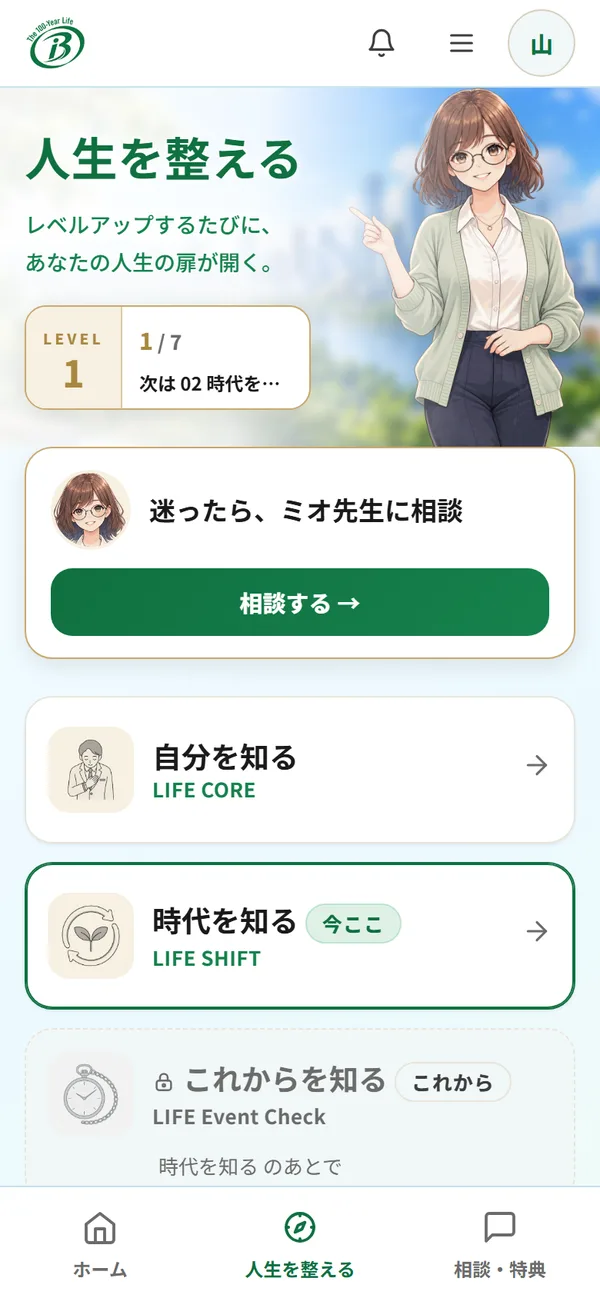
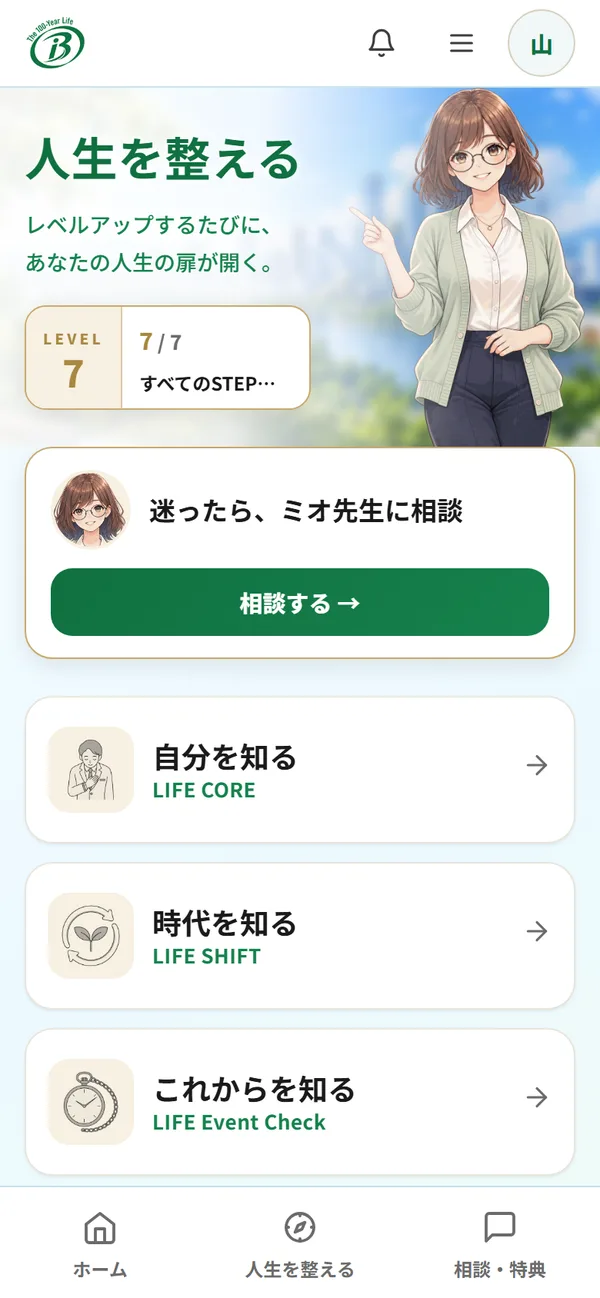
改善版: モックアップをスマホ枠に統一（人生を整える=全STEP解放・ディグラム診断をスマホ幅で撮影）

diff --git a/v2/index.html b/v2/index.html
@@ -7,7 +7,7 @@
 <link href="https://fonts.googleapis.com/css2?family=Noto+Serif+JP:wght@500;600&amp;display=swap" rel="stylesheet"/>
 <link href="../style.css?v=2" rel="stylesheet"/>
 <link href="../enhance.css?v=18" rel="stylesheet"/>
-<link href="../journey.css?v=7" rel="stylesheet"/>
+<link href="../journey.css?v=8" rel="stylesheet"/>
 <script>document.documentElement.classList.add('js');setTimeout(function(){if(!window.__lj)document.documentElement.classList.remove('js')},2500)</script>
 <script defer="" src="../journey.js?v=1"></script>
 <script defer="" src="../script.js?v=3"></script>
@@ -58,15 +58,15 @@
 <h2><w-b>８つの</w-b><w-b>入口が、</w-b><br/><w-b>一つの</w-b><w-b>人生に</w-b><w-b>つながる。</w-b></h2>
 <p class="lead" data-fit="" style="--fit:4.277vw;--fit-cap:16px"><w-b>気づきから、</w-b><w-b>学び、</w-b><w-b>設計、</w-b><w-b>対話、</w-b><w-b>行動まで。</w-b><br/><w-b>すべてを、</w-b><w-b>あなたの</w-b><w-b>人生の</w-b><w-b>流れの</w-b><w-b>中で。</w-b></p>
 <ol class="journey-map"><li class="jm-item"><a class="jm-link" href="#core"><span class="jm-no">01</span><span class="jm-body"><small class="jm-en">LIFE CORE</small><strong class="jm-ja"><w-b>自分を</w-b><w-b>知る</w-b></strong><span class="jm-desc"><w-b>20の</w-b><w-b>質問で、</w-b><w-b>自分の</w-b><w-b>性格の</w-b><w-b>傾向を</w-b><w-b>知る</w-b></span></span></a></li><li class="jm-item"><a class="jm-link" href="#shift"><span class="jm-no">02</span><span class="jm-body"><small class="jm-en">LIFE SHIFT</small><strong class="jm-ja"><w-b>時代を</w-b><w-b>知る</w-b></strong><span class="jm-desc"><w-b>電子書籍と</w-b><w-b>年表で、</w-b><w-b>人生100年時代の</w-b><w-b>前提を</w-b><w-b>知る</w-b></span></span></a></li><li class="jm-item"><a class="jm-link" href="#event"><span class="jm-no">03</span><span class="jm-body"><small class="jm-en">LIFE Event Check</small><strong class="jm-ja"><w-b>未来を</w-b><w-b>描く</w-b></strong><span class="jm-desc"><w-b>家族の</w-b><w-b>年齢から、</w-b><w-b>これからの</w-b><w-b>出来事を</w-b><w-b>年表に</w-b><w-b>する</w-b></span></span></a></li><li class="jm-item"><a class="jm-link" href="#check"><span class="jm-no">04</span><span class="jm-body"><small class="jm-en">LIFE Check42</small><strong class="jm-ja"><w-b>備えを</w-b><w-b>確かめる</w-b></strong><span class="jm-desc"><w-b>6つの</w-b><w-b>テーマ・42問で、</w-b><w-b>今の</w-b><w-b>備えを</w-b><w-b>確かめる</w-b></span></span></a></li><li class="jm-item"><a class="jm-link" href="#academy"><span class="jm-no">05</span><span class="jm-body"><small class="jm-en">LIFE ACADEMY42 &amp; QUEST</small><strong class="jm-ja"><w-b>学び、</w-b><w-b>心に</w-b><w-b>残す</w-b></strong><span class="jm-desc"><w-b>動画で</w-b><w-b>知識を</w-b><w-b>学び、</w-b><w-b>物語で</w-b><w-b>心に</w-b><w-b>残す</w-b></span></span></a></li><li class="jm-item"><a class="jm-link" href="#roadmap"><span class="jm-no">06</span><span class="jm-body"><small class="jm-en">LIFE ROADMAP</small><strong class="jm-ja"><w-b>未来を</w-b><w-b>設計する</w-b></strong><span class="jm-desc"><w-b>願いと</w-b><w-b>学びを、</w-b><w-b>人生設計書に</w-b><w-b>まとめる</w-b></span></span></a></li><li class="jm-item"><a class="jm-link" href="#meeting"><span class="jm-no">07</span><span class="jm-body"><small class="jm-en">LIFE Meeting</small><strong class="jm-ja"><w-b>想いを</w-b><w-b>分かち合う</w-b></strong><span class="jm-desc"><w-b>見つけた</w-b><w-b>願いを、</w-b><w-b>大切な</w-b><w-b>人と</w-b><w-b>話す</w-b></span></span></a></li><li class="jm-item"><a class="jm-link" href="#consult"><span class="jm-no">08</span><span class="jm-body"><small class="jm-en">LIFE Consult</small><strong class="jm-ja"><w-b>必要な</w-b><w-b>力を</w-b><w-b>借りる</w-b></strong><span class="jm-desc"><w-b>住まいや</w-b><w-b>保険の</w-b><w-b>専門家に</w-b><w-b>相談する</w-b></span></span></a></li></ol>
-<p class="contents-note"><w-b>ミオ先生と</w-b><w-b>LIFE Recordが、</w-b><w-b>この</w-b><w-b>旅を</w-b><w-b>通してあなたの</w-b><w-b>気づきと</w-b><w-b>歩みを</w-b><w-b>支えます。</w-b></p><figure class="pc-panel map-shot"><div class="browsers"><div class="browser"><img alt="会員ページの「人生を整える」画面" decoding="async" height="907" loading="lazy" src="../shots/pc-journey.webp" width="927"/></div></div><figcaption><w-b>会員ページの</w-b><w-b>「人生を</w-b><w-b>整える」画面。</w-b><w-b>8つの</w-b><w-b>ステップが</w-b><w-b>順に</w-b><w-b>並びます</w-b></figcaption></figure></section>
-<section class="chapter ch" id="core"><div class="ch-head"><p class="eyebrow">LIFE CORE</p><h2 data-fit="" style="--fit:6.899vw;--fit-cap:27px"><w-b>自分を</w-b><w-b>知ることは、</w-b><br/><w-b>自分の</w-b><w-b>人生を</w-b><w-b>選ぶ力に</w-b><w-b>なる。</w-b></h2><p class="pull ch-lead" data-fit="" style="--fit:5.608vw;--fit-cap:19px"><w-b>未来を</w-b><w-b>描く</w-b><w-b>前に、</w-b><br/><w-b>その</w-b><w-b>未来を</w-b><w-b>生きる</w-b><w-b>自分を</w-b><w-b>知ろう。</w-b></p></div><div class="chapter-visual screen-visual"><figure class="pc-panel"><div class="browsers"><div class="browser"><img alt="LIFE CORE の画面" decoding="async" height="745" loading="lazy" src="../shots/pc-core.webp" width="891"/></div></div><figcaption><w-b>会員ページの</w-b><w-b>LIFE CORE画面</w-b></figcaption></figure><div class="photo-label"><span>01</span>
-<p>LIFE CORE</p></div></div><div class="ch-body"><div class="can"><p class="can-label"><w-b>できる</w-b><w-b>こと</w-b></p><ul><li><w-b>全20問・3択の</w-b><w-b>質問に</w-b><w-b>答えて、</w-b><w-b>性格の</w-b><w-b>傾向を</w-b><w-b>知る</w-b></li><li><w-b>結果を</w-b><w-b>読み、</w-b><w-b>しっくりくる所と</w-b><w-b>違う</w-b><w-b>所を</w-b><w-b>自分の</w-b><w-b>言葉で</w-b><w-b>確かめる</w-b></li><li><w-b>働き方や</w-b><w-b>人との</w-b><w-b>関わり方を</w-b><w-b>考える</w-b><w-b>手がかりに</w-b><w-b>する</w-b></li></ul></div><figure class="pc-panel tall"><div class="browsers"><div class="browser"><img alt="ディグラム診断の質問画面" decoding="async" height="1325" loading="lazy" src="../shots/digram-q1.webp" width="1067"/></div></div><figcaption><w-b>診断は</w-b><w-b>外部の</w-b><w-b>「ディグラム診断」で</w-b><w-b>受けます</w-b><w-b>（質問画面）</w-b></figcaption></figure><details class="more"><summary><span class="t-open"><w-b>詳しく</w-b><w-b>読む</w-b></span><span class="t-close"><w-b>閉じる</w-b></span></summary><div class="prose"><p><w-b>同じ</w-b><w-b>言葉に</w-b><w-b>励まされる</w-b><w-b>人も</w-b><w-b>いれば、</w-b><w-b>少し</w-b><w-b>苦しくなる</w-b><w-b>人も</w-b><w-b>います。</w-b><w-b>人と</w-b><w-b>話す</w-b><w-b>ことで</w-b><w-b>元気に</w-b><w-b>なる</w-b><w-b>日も、</w-b><w-b>一人で</w-b><w-b>静かに</w-b><w-b>考えたい</w-b><w-b>日も</w-b><w-b>あります。</w-b><w-b>あなたには、</w-b><w-b>あなたの</w-b><w-b>感じ方が</w-b><w-b>あります。</w-b></p><p><w-b>新しい</w-b><w-b>環境に</w-b><w-b>入ると、</w-b><w-b>周りに</w-b><w-b>合わせようと</w-b><w-b>頑張る</w-b><w-b>ことが</w-b><w-b>増えるかもしれません。</w-b><w-b>そんな</w-b><w-b>とき、</w-b><w-b>自分が</w-b><w-b>どんな</w-b><w-b>場面で</w-b><w-b>力を</w-b><w-b>発揮し、</w-b><w-b>どんな</w-b><w-b>ことに</w-b><w-b>無理を</w-b><w-b>しやすいかを</w-b><w-b>知っていると、</w-b><w-b>自分との</w-b><w-b>付き合い方を</w-b><w-b>考えやすくなります。</w-b></p><p><w-b>LIFE COREでは、</w-b><w-b>性格の</w-b><w-b>傾向を</w-b><w-b>示す波形と、</w-b><w-b>これまでの</w-b><w-b>経験を</w-b><w-b>手がかりに、</w-b><w-b>自分を</w-b><w-b>見つめます。</w-b><w-b>結果を</w-b><w-b>読んでしっくりくる</w-b><w-b>ところも、</w-b><w-b>違うと</w-b><w-b>感じる</w-b><w-b>ところも、</w-b><w-b>あなた</w-b><w-b>自身の</w-b><w-b>言葉で</w-b><w-b>確かめていきます。</w-b></p><p><w-b>「頼まれると</w-b><w-b>断れない」</w-b><w-b>「考えてから</w-b><w-b>動く</w-b><w-b>ほうが</w-b><w-b>安心する」</w-b><w-b>「誰かの</w-b><w-b>役に</w-b><w-b>立てると</w-b><w-b>うれしい」。</w-b><w-b>そうした</w-b><w-b>気づきは、</w-b><w-b>働き方、</w-b><w-b>人との</w-b><w-b>関わり方、</w-b><w-b>暮らし方を</w-b><w-b>選ぶ手がかりに</w-b><w-b>なります。</w-b><w-b>傾向は、</w-b><w-b>可能性を</w-b><w-b>決めつける</w-b><w-b>ものではありません。</w-b></p><p><w-b>自分を</w-b><w-b>理解する</w-b><w-b>ことは、</w-b><w-b>相手にも</w-b><w-b>自分と</w-b><w-b>違う</w-b><w-b>感じ方が</w-b><w-b>あると</w-b><w-b>気づく</w-b><w-b>入口です。</w-b><w-b>なぜ</w-b><w-b>伝わらないのだろうと</w-b><w-b>思った</w-b><w-b>とき、</w-b><w-b>相手の</w-b><w-b>受け取り方を</w-b><w-b>想像する</w-b><w-b>余地が</w-b><w-b>生まれます。</w-b></p><p><w-b>この</w-b><w-b>旅の</w-b><w-b>最初に、</w-b><w-b>自分の</w-b><w-b>声を</w-b><w-b>聞く。</w-b><w-b>そこに、</w-b><w-b>これから</w-b><w-b>何を</w-b><w-b>大切に</w-b><w-b>して</w-b><w-b>生きるかを</w-b><w-b>考える</w-b><w-b>土台が</w-b><w-b>あります。</w-b></p></div></details></div></section>
-<section class="chapter ch" id="shift"><div class="ch-head"><p class="eyebrow">LIFE SHIFT</p><h2 data-fit="" style="--fit:7.802vw;--fit-cap:27px"><w-b>大切な</w-b><w-b>想いを、</w-b><br/><w-b>これからの</w-b><w-b>時代に</w-b><w-b>つなぐ。</w-b></h2><p class="pull ch-lead"><w-b>これまでの</w-b><w-b>「当たり前」を</w-b><w-b>確かめる</w-b><w-b>ことが、</w-b><br/><w-b>これからの</w-b><w-b>可能性を</w-b><w-b>広げていく。</w-b></p></div><div class="chapter-visual screen-visual"><figure class="pc-panel"><div class="browsers"><div class="browser"><img alt="LIFE SHIFT の教材の画面" decoding="async" height="805" loading="lazy" src="../shots/pc-shift.webp" width="940"/></div></div><figcaption><w-b>会員ページの</w-b><w-b>LIFE SHIFT画面。</w-b><w-b>電子書籍と</w-b><w-b>年表の</w-b><w-b>2つを</w-b><w-b>読めます</w-b></figcaption></figure><div class="photo-label"><span>02</span>
+<p class="contents-note"><w-b>ミオ先生と</w-b><w-b>LIFE Recordが、</w-b><w-b>この</w-b><w-b>旅を</w-b><w-b>通してあなたの</w-b><w-b>気づきと</w-b><w-b>歩みを</w-b><w-b>支えます。</w-b></p><figure class="shot-panel"><div class="phones"><div class="phone"><img alt="会員ページの「人生を整える」画面" decoding="async" height="1298" loading="lazy" src="../shots/journey.webp" width="600"/></div></div><figcaption><w-b>会員ページの</w-b><w-b>「人生を</w-b><w-b>整える」画面。</w-b><w-b>8つの</w-b><w-b>ステップが</w-b><w-b>順に</w-b><w-b>並びます</w-b></figcaption></figure></section>
+<section class="chapter ch" id="core"><div class="ch-head"><p class="eyebrow">LIFE CORE</p><h2 data-fit="" style="--fit:6.899vw;--fit-cap:27px"><w-b>自分を</w-b><w-b>知ることは、</w-b><br/><w-b>自分の</w-b><w-b>人生を</w-b><w-b>選ぶ力に</w-b><w-b>なる。</w-b></h2><p class="pull ch-lead" data-fit="" style="--fit:5.608vw;--fit-cap:19px"><w-b>未来を</w-b><w-b>描く</w-b><w-b>前に、</w-b><br/><w-b>その</w-b><w-b>未来を</w-b><w-b>生きる</w-b><w-b>自分を</w-b><w-b>知ろう。</w-b></p></div><div class="chapter-visual screen-visual"><figure class="shot-panel"><div class="phones"><div class="phone"><img alt="LIFE CORE の画面" decoding="async" height="1298" loading="lazy" src="../shots/core.webp" width="600"/></div></div><figcaption><w-b>会員ページの</w-b><w-b>LIFE CORE画面</w-b></figcaption></figure><div class="photo-label"><span>01</span>
+<p>LIFE CORE</p></div></div><div class="ch-body"><div class="can"><p class="can-label"><w-b>できる</w-b><w-b>こと</w-b></p><ul><li><w-b>全20問・3択の</w-b><w-b>質問に</w-b><w-b>答えて、</w-b><w-b>性格の</w-b><w-b>傾向を</w-b><w-b>知る</w-b></li><li><w-b>結果を</w-b><w-b>読み、</w-b><w-b>しっくりくる所と</w-b><w-b>違う</w-b><w-b>所を</w-b><w-b>自分の</w-b><w-b>言葉で</w-b><w-b>確かめる</w-b></li><li><w-b>働き方や</w-b><w-b>人との</w-b><w-b>関わり方を</w-b><w-b>考える</w-b><w-b>手がかりに</w-b><w-b>する</w-b></li></ul></div><figure class="shot-panel"><div class="phones"><div class="phone"><img alt="ディグラム診断の質問画面" decoding="async" height="1298" loading="lazy" src="../shots/digram-sp.webp" width="600"/></div></div><figcaption><w-b>診断は</w-b><w-b>外部の</w-b><w-b>「ディグラム診断」で</w-b><w-b>受けます</w-b><w-b>（質問画面）</w-b></figcaption></figure><details class="more"><summary><span class="t-open"><w-b>詳しく</w-b><w-b>読む</w-b></span><span class="t-close"><w-b>閉じる</w-b></span></summary><div class="prose"><p><w-b>同じ</w-b><w-b>言葉に</w-b><w-b>励まされる</w-b><w-b>人も</w-b><w-b>いれば、</w-b><w-b>少し</w-b><w-b>苦しくなる</w-b><w-b>人も</w-b><w-b>います。</w-b><w-b>人と</w-b><w-b>話す</w-b><w-b>ことで</w-b><w-b>元気に</w-b><w-b>なる</w-b><w-b>日も、</w-b><w-b>一人で</w-b><w-b>静かに</w-b><w-b>考えたい</w-b><w-b>日も</w-b><w-b>あります。</w-b><w-b>あなたには、</w-b><w-b>あなたの</w-b><w-b>感じ方が</w-b><w-b>あります。</w-b></p><p><w-b>新しい</w-b><w-b>環境に</w-b><w-b>入ると、</w-b><w-b>周りに</w-b><w-b>合わせようと</w-b><w-b>頑張る</w-b><w-b>ことが</w-b><w-b>増えるかもしれません。</w-b><w-b>そんな</w-b><w-b>とき、</w-b><w-b>自分が</w-b><w-b>どんな</w-b><w-b>場面で</w-b><w-b>力を</w-b><w-b>発揮し、</w-b><w-b>どんな</w-b><w-b>ことに</w-b><w-b>無理を</w-b><w-b>しやすいかを</w-b><w-b>知っていると、</w-b><w-b>自分との</w-b><w-b>付き合い方を</w-b><w-b>考えやすくなります。</w-b></p><p><w-b>LIFE COREでは、</w-b><w-b>性格の</w-b><w-b>傾向を</w-b><w-b>示す波形と、</w-b><w-b>これまでの</w-b><w-b>経験を</w-b><w-b>手がかりに、</w-b><w-b>自分を</w-b><w-b>見つめます。</w-b><w-b>結果を</w-b><w-b>読んでしっくりくる</w-b><w-b>ところも、</w-b><w-b>違うと</w-b><w-b>感じる</w-b><w-b>ところも、</w-b><w-b>あなた</w-b><w-b>自身の</w-b><w-b>言葉で</w-b><w-b>確かめていきます。</w-b></p><p><w-b>「頼まれると</w-b><w-b>断れない」</w-b><w-b>「考えてから</w-b><w-b>動く</w-b><w-b>ほうが</w-b><w-b>安心する」</w-b><w-b>「誰かの</w-b><w-b>役に</w-b><w-b>立てると</w-b><w-b>うれしい」。</w-b><w-b>そうした</w-b><w-b>気づきは、</w-b><w-b>働き方、</w-b><w-b>人との</w-b><w-b>関わり方、</w-b><w-b>暮らし方を</w-b><w-b>選ぶ手がかりに</w-b><w-b>なります。</w-b><w-b>傾向は、</w-b><w-b>可能性を</w-b><w-b>決めつける</w-b><w-b>ものではありません。</w-b></p><p><w-b>自分を</w-b><w-b>理解する</w-b><w-b>ことは、</w-b><w-b>相手にも</w-b><w-b>自分と</w-b><w-b>違う</w-b><w-b>感じ方が</w-b><w-b>あると</w-b><w-b>気づく</w-b><w-b>入口です。</w-b><w-b>なぜ</w-b><w-b>伝わらないのだろうと</w-b><w-b>思った</w-b><w-b>とき、</w-b><w-b>相手の</w-b><w-b>受け取り方を</w-b><w-b>想像する</w-b><w-b>余地が</w-b><w-b>生まれます。</w-b></p><p><w-b>この</w-b><w-b>旅の</w-b><w-b>最初に、</w-b><w-b>自分の</w-b><w-b>声を</w-b><w-b>聞く。</w-b><w-b>そこに、</w-b><w-b>これから</w-b><w-b>何を</w-b><w-b>大切に</w-b><w-b>して</w-b><w-b>生きるかを</w-b><w-b>考える</w-b><w-b>土台が</w-b><w-b>あります。</w-b></p></div></details></div></section>
+<section class="chapter ch" id="shift"><div class="ch-head"><p class="eyebrow">LIFE SHIFT</p><h2 data-fit="" style="--fit:7.802vw;--fit-cap:27px"><w-b>大切な</w-b><w-b>想いを、</w-b><br/><w-b>これからの</w-b><w-b>時代に</w-b><w-b>つなぐ。</w-b></h2><p class="pull ch-lead"><w-b>これまでの</w-b><w-b>「当たり前」を</w-b><w-b>確かめる</w-b><w-b>ことが、</w-b><br/><w-b>これからの</w-b><w-b>可能性を</w-b><w-b>広げていく。</w-b></p></div><div class="chapter-visual screen-visual"><figure class="shot-panel"><div class="phones"><div class="phone"><img alt="LIFE SHIFT の画面" decoding="async" height="1298" loading="lazy" src="../shots/shift.webp" width="600"/></div></div><figcaption><w-b>会員ページの</w-b><w-b>LIFE SHIFT画面。</w-b><w-b>電子書籍と</w-b><w-b>年表の</w-b><w-b>2つを</w-b><w-b>読めます</w-b></figcaption></figure><div class="photo-label"><span>02</span>
 <p>LIFE SHIFT</p></div></div><div class="ch-body"><div class="can"><p class="can-label"><w-b>できる</w-b><w-b>こと</w-b></p><ul><li><w-b>電子書籍</w-b><w-b>『LIFE SHIFT』</w-b><w-b>（全9章＋エピローグ）を</w-b><w-b>読む</w-b></li><li><w-b>人生80年時代と</w-b><w-b>100年時代の</w-b><w-b>年表を</w-b><w-b>見くらべる</w-b></li><li><w-b>自分の</w-b><w-b>前提を</w-b><w-b>見直し、</w-b><w-b>これから</w-b><w-b>調べたい</w-b><w-b>問いを</w-b><w-b>見つける</w-b></li></ul></div><details class="more"><summary><span class="t-open"><w-b>詳しく</w-b><w-b>読む</w-b></span><span class="t-close"><w-b>閉じる</w-b></span></summary><div class="prose"><p><w-b>「こう</w-b><w-b>しておけば</w-b><w-b>安心だよ」。</w-b><w-b>家族や</w-b><w-b>身近な</w-b><w-b>大人から、</w-b><w-b>そんな</w-b><w-b>言葉を</w-b><w-b>受け取ってきたかもしれません。</w-b><w-b>その</w-b><w-b>言葉には、</w-b><w-b>あなたに</w-b><w-b>幸せに</w-b><w-b>なってほしいという</w-b><w-b>願いが</w-b><w-b>込められていたはずです。</w-b></p><p><w-b>その</w-b><w-b>願いを</w-b><w-b>大切に</w-b><w-b>しながら、</w-b><w-b>方法は</w-b><w-b>今の</w-b><w-b>暮らしに</w-b><w-b>照らして</w-b><w-b>考える</w-b><w-b>必要が</w-b><w-b>あります。</w-b><w-b>働き方、</w-b><w-b>暮らしに</w-b><w-b>かかる</w-b><w-b>お金、</w-b><w-b>家族の</w-b><w-b>あり方。</w-b><w-b>そして、</w-b><w-b>人生の</w-b><w-b>後半に</w-b><w-b>どんな</w-b><w-b>時間を</w-b><w-b>過ごすのか。</w-b><w-b>自分が</w-b><w-b>生きる</w-b><w-b>条件を</w-b><w-b>知ることが、</w-b><w-b>未来の</w-b><w-b>準備に</w-b><w-b>つながります。</w-b></p><p><w-b>LIFE SHIFTは、</w-b><w-b>人生100年時代という</w-b><w-b>長い</w-b><w-b>時間軸から、</w-b><w-b>自分の</w-b><w-b>前提を</w-b><w-b>見直す</w-b><w-b>機会です。</w-b><w-b>学校を</w-b><w-b>出て、</w-b><w-b>働いて、</w-b><w-b>退職する。</w-b><w-b>その</w-b><w-b>先にも</w-b><w-b>続く</w-b><w-b>人生まで、</w-b><w-b>視野を</w-b><w-b>広げていきます。</w-b></p><p><w-b>「周りも</w-b><w-b>そうしているから」</w-b><w-b>「いつか</w-b><w-b>何とか</w-b><w-b>なるから」。</w-b><w-b>普段は</w-b><w-b>立ち止まらない</w-b><w-b>考え方に</w-b><w-b>ついて、</w-b><w-b>今の</w-b><w-b>自分にも</w-b><w-b>合うだろうかと</w-b><w-b>問い直してみる。</w-b><w-b>分からない</w-b><w-b>ことは、</w-b><w-b>これから</w-b><w-b>調べる</w-b><w-b>問いに</w-b><w-b>してかまいません。</w-b></p><p><w-b>早く</w-b><w-b>気づけば、</w-b><w-b>少し</w-b><w-b>ずつ準備する</w-b><w-b>時間を</w-b><w-b>持てます。</w-b><w-b>学ぶこと、</w-b><w-b>習慣を</w-b><w-b>整える</w-b><w-b>こと、</w-b><w-b>誰かに</w-b><w-b>相談する</w-b><w-b>こと。</w-b><w-b>今日の</w-b><w-b>小さな</w-b><w-b>選択を、</w-b><w-b>未来の</w-b><w-b>自分の</w-b><w-b>ために</w-b><w-b>使えるようになります。</w-b></p><p><w-b>時代を</w-b><w-b>知るのは、</w-b><w-b>自分の</w-b><w-b>願いを</w-b><w-b>実現する</w-b><w-b>ためです。</w-b><w-b>受け継いだ愛情を、</w-b><w-b>これからの</w-b><w-b>自分に</w-b><w-b>合った</w-b><w-b>選び方へ</w-b><w-b>つないで</w-b><w-b>いきましょう。</w-b></p></div></details></div></section>
-<section class="chapter ch" id="event"><div class="ch-head"><p class="eyebrow">LIFE Event Check</p><h2><w-b>未来に、</w-b><w-b>楽しみに</w-b><w-b>できる</w-b><br/><w-b>場面を</w-b><w-b>置いてみよう。</w-b></h2><p class="pull ch-lead" data-fit="" style="--fit:4.674vw;--fit-cap:19px"><w-b>未来を</w-b><w-b>思い描く</w-b><w-b>ことは、</w-b><br/><w-b>今日を</w-b><w-b>大切に</w-b><w-b>する</w-b><w-b>理由を</w-b><w-b>見つける</w-b><w-b>こと。</w-b></p></div><div class="chapter-visual screen-visual"><figure class="pc-panel"><div class="browsers"><div class="browser"><img alt="LIFE Event Check の入力画面と年表" decoding="async" height="820" loading="lazy" src="../shots/pc-event.webp" width="1000"/></div></div><figcaption><w-b>LIFE Event Checkの</w-b><w-b>画面。</w-b><w-b>家族の</w-b><w-b>年齢を</w-b><w-b>入れると</w-b><w-b>年表が</w-b><w-b>できます</w-b><w-b>（表示は</w-b><w-b>入力例です）</w-b></figcaption></figure><div class="photo-label"><span>03</span>
+<section class="chapter ch" id="event"><div class="ch-head"><p class="eyebrow">LIFE Event Check</p><h2><w-b>未来に、</w-b><w-b>楽しみに</w-b><w-b>できる</w-b><br/><w-b>場面を</w-b><w-b>置いてみよう。</w-b></h2><p class="pull ch-lead" data-fit="" style="--fit:4.674vw;--fit-cap:19px"><w-b>未来を</w-b><w-b>思い描く</w-b><w-b>ことは、</w-b><br/><w-b>今日を</w-b><w-b>大切に</w-b><w-b>する</w-b><w-b>理由を</w-b><w-b>見つける</w-b><w-b>こと。</w-b></p></div><div class="chapter-visual screen-visual"><figure class="shot-panel pair"><div class="phones"><div class="phone"><img alt="LIFE Event Check の入力画面" decoding="async" height="1298" loading="lazy" src="../shots/event-input.webp" width="600"/></div><div class="phone"><img alt="LIFE Event Check の年表" decoding="async" height="1298" loading="lazy" src="../shots/event-timeline.webp" width="600"/></div></div><figcaption><w-b>LIFE Event Checkの</w-b><w-b>入力画面と</w-b><w-b>年表。</w-b><w-b>家族の</w-b><w-b>年齢を</w-b><w-b>入れると</w-b><w-b>年表が</w-b><w-b>できます</w-b><w-b>（表示は</w-b><w-b>入力例です）</w-b></figcaption></figure><div class="photo-label"><span>03</span>
 <p>LIFE Event Check</p></div></div><div class="ch-body"><div class="can"><p class="can-label"><w-b>できる</w-b><w-b>こと</w-b></p><ul><li><w-b>自分と</w-b><w-b>家族の</w-b><w-b>年齢を</w-b><w-b>入れて、</w-b><w-b>人生100年の</w-b><w-b>年表を</w-b><w-b>つくる</w-b></li><li><w-b>住み</w-b><w-b>替えや</w-b><w-b>学び直しなど、かなえたい</w-b><w-b>ことを</w-b><w-b>年表に</w-b><w-b>置く</w-b></li><li><w-b>次に</w-b><w-b>やってくる</w-b><w-b>節目と、</w-b><w-b>その</w-b><w-b>ときの</w-b><w-b>家族の</w-b><w-b>年齢を</w-b><w-b>確かめる</w-b></li></ul></div><details class="more"><summary><span class="t-open"><w-b>詳しく</w-b><w-b>読む</w-b></span><span class="t-close"><w-b>閉じる</w-b></span></summary><div class="prose"><p><w-b>５年後の</w-b><w-b>休日、</w-b><w-b>あなたは</w-b><w-b>どこで、</w-b><w-b>誰と、</w-b><w-b>何を</w-b><w-b>していたいですか。</w-b><w-b>好きな</w-b><w-b>仕事に</w-b><w-b>挑戦しているかもしれません。</w-b><w-b>旅先の</w-b><w-b>景色を</w-b><w-b>眺めているかもしれません。</w-b><w-b>自分の</w-b><w-b>部屋で、</w-b><w-b>ゆっくり朝食を</w-b><w-b>楽しんでいるかもしれません。</w-b></p><p><w-b>LIFE Event Checkでは、</w-b><w-b>これからかなえたい</w-b><w-b>こと、</w-b><w-b>起こりそうな</w-b><w-b>こと、</w-b><w-b>まだ</w-b><w-b>決めていない</w-b><w-b>ことを、</w-b><w-b>時間の</w-b><w-b>流れに</w-b><w-b>沿って</w-b><w-b>並べます。</w-b><w-b>ぼんやりしていた</w-b><w-b>未来に、</w-b><w-b>自分の</w-b><w-b>言葉で</w-b><w-b>輪郭を</w-b><w-b>与えていきます。</w-b></p><p><w-b>住まいの</w-b><w-b>変化、</w-b><w-b>学び直し、</w-b><w-b>仕事への</w-b><w-b>挑戦、</w-b><w-b>家族との</w-b><w-b>時間。</w-b><w-b>人生の</w-b><w-b>歩み方は</w-b><w-b>一人ひとり違います。</w-b><w-b>結婚や</w-b><w-b>子育ても、</w-b><w-b>自分が</w-b><w-b>望むか</w-b><w-b>どうかを</w-b><w-b>含めて</w-b><w-b>考える</w-b><w-b>ものです。</w-b><w-b>誰かの</w-b><w-b>予定表に、</w-b><w-b>自分を</w-b><w-b>合わせる</w-b><w-b>必要は</w-b><w-b>ありません。</w-b></p><p><w-b>未来を</w-b><w-b>並べてみると、</w-b><w-b>一つの</w-b><w-b>出来事が</w-b><w-b>ほかの</w-b><w-b>ことに</w-b><w-b>つながっていると</w-b><w-b>気づきます。</w-b><w-b>引っ越しは</w-b><w-b>家計や</w-b><w-b>通勤時間に</w-b><w-b>関わり、</w-b><w-b>新しい</w-b><w-b>挑戦には</w-b><w-b>学ぶ</w-b><w-b>時間や</w-b><w-b>準備が</w-b><w-b>必要に</w-b><w-b>なる。</w-b><w-b>自分の</w-b><w-b>変化と、</w-b><w-b>家族の</w-b><w-b>変化が</w-b><w-b>重なることもあります。</w-b></p><p><w-b>予定は</w-b><w-b>変えてかまいません。</w-b><w-b>「いつかやりたい」を</w-b><w-b>一度</w-b><w-b>置いてみる</w-b><w-b>ことで、</w-b><w-b>今から</w-b><w-b>できる</w-b><w-b>ことが</w-b><w-b>見えてきます。</w-b><w-b>まだ</w-b><w-b>分からない</w-b><w-b>未来にも、</w-b><w-b>考え</w-b><w-b>始める</w-b><w-b>場所が</w-b><w-b>できます。</w-b></p><p><w-b>楽しみに</w-b><w-b>したい</w-b><w-b>場面が</w-b><w-b>見つかったら、</w-b><w-b>次は、</w-b><w-b>その</w-b><w-b>未来を</w-b><w-b>安心して</w-b><w-b>迎える</w-b><w-b>ための</w-b><w-b>備えを</w-b><w-b>確かめましょう。</w-b></p></div></details></div></section>
-<section class="chapter ch" id="check"><div class="ch-head"><p class="eyebrow">LIFE Check42</p><h2 data-fit="" style="--fit:7.884vw;--fit-cap:27px"><w-b>知らなかったことに、</w-b><br/><w-b>今、</w-b><w-b>出会える</w-b><w-b>価値が</w-b><w-b>ある。</w-b></h2><p class="pull ch-lead" data-fit="" style="--fit:4.683vw;--fit-cap:19px"><w-b>「知らなかった」を、</w-b><br/><w-b>「今から</w-b><w-b>考えられる」に</w-b><w-b>変えていこう。</w-b></p></div><div class="chapter-visual screen-visual"><figure class="pc-panel"><div class="browsers"><div class="browser"><img alt="LIFE Check42 の画面" decoding="async" height="867" loading="lazy" src="../shots/pc-check42.webp" width="745"/></div></div><figcaption><w-b>LIFE Check42の</w-b><w-b>画面</w-b><w-b>（結果は</w-b><w-b>サンプルです）。</w-b><w-b>入力内容は</w-b><w-b>その</w-b><w-b>端末だけに</w-b><w-b>保存されます</w-b></figcaption></figure><div class="photo-label"><span>04</span>
-<p>LIFE Check42</p></div></div><div class="ch-body"><div class="can"><p class="can-label"><w-b>できる</w-b><w-b>こと</w-b></p><ul><li><w-b>お金・住まい・万が一・</w-b><w-b>健康・災害・老後の</w-b><w-b>42問に、</w-b><w-b>4択で</w-b><w-b>答える</w-b><w-b>（約5分）</w-b></li><li><w-b>6つの</w-b><w-b>テーマの</w-b><w-b>バランスを、</w-b><w-b>1枚の</w-b><w-b>レーダーチャートで</w-b><w-b>見る</w-b></li><li><w-b>何度でも</w-b><w-b>やり直して、</w-b><w-b>次に</w-b><w-b>整えたい</w-b><w-b>テーマを</w-b><w-b>選ぶ</w-b></li></ul></div><figure class="pc-panel pair"><div class="browsers"><div class="browser"><img alt="ライフシミュレーションの家計の見通し" decoding="async" height="922" loading="lazy" src="../shots/pc-simulation-money.webp" width="848"/></div><div class="browser"><img alt="ライフシミュレーションの試算画面" decoding="async" height="877" loading="lazy" src="../shots/pc-simulation.webp" width="886"/></div></div><figcaption><w-b>LIFE Check42の</w-b><w-b>あとは、</w-b><w-b>ライフシミュレーションで</w-b><w-b>100歳までの</w-b><w-b>家計の</w-b><w-b>見通しを</w-b><w-b>試算できます</w-b><w-b>（表示は</w-b><w-b>入力例です）</w-b></figcaption></figure><details class="more"><summary><span class="t-open"><w-b>詳しく</w-b><w-b>読む</w-b></span><span class="t-close"><w-b>閉じる</w-b></span></summary><div class="prose"><p><w-b>未来に</w-b><w-b>置いた、</w-b><w-b>楽しみに</w-b><w-b>したい</w-b><w-b>場面。</w-b><w-b>その</w-b><w-b>ために、</w-b><w-b>どこまで</w-b><w-b>準備できているでしょうか。</w-b><w-b>自分では</w-b><w-b>大丈夫だと</w-b><w-b>思っていても、</w-b><w-b>まだ</w-b><w-b>一度も</w-b><w-b>考えた</w-b><w-b>ことの</w-b><w-b>ない</w-b><w-b>領域が</w-b><w-b>あるかもしれません。</w-b></p><p><w-b>LIFE Check42は、</w-b><w-b>お金・住まい・万が一・</w-b><w-b>健康・災害・老後という</w-b><w-b>６つの</w-b><w-b>テーマを、</w-b><w-b>各７問、</w-b><w-b>合計42の</w-b><w-b>問いで</w-b><w-b>確かめる</w-b><w-b>機会です。</w-b><w-b>今の</w-b><w-b>理解や</w-b><w-b>備えを</w-b><w-b>振り返り、</w-b><w-b>人生の</w-b><w-b>「未設計」を</w-b><w-b>見つけます。</w-b></p><p><w-b>未設計とは、</w-b><w-b>まだ</w-b><w-b>考えられていない</w-b><w-b>こと、</w-b><w-b>備えられていない</w-b><w-b>ことです。</w-b><w-b>「分からない」と</w-b><w-b>気づけたら、</w-b><w-b>そこから</w-b><w-b>学び、</w-b><w-b>確かめる</w-b><w-b>ことができます。</w-b><w-b>問いに</w-b><w-b>出会う</w-b><w-b>こと</w-b><w-b>自体が、</w-b><w-b>未来の</w-b><w-b>自分への</w-b><w-b>準備に</w-b><w-b>なります。</w-b></p><p><w-b>６つの</w-b><w-b>テーマは、</w-b><w-b>暮らしの</w-b><w-b>中で</w-b><w-b>つながっています。</w-b><w-b>住まいを</w-b><w-b>選ぶ</w-b><w-b>ときにも、</w-b><w-b>支払いだけでなく、</w-b><w-b>健康、</w-b><w-b>災害への</w-b><w-b>備え、</w-b><w-b>万が一の</w-b><w-b>家族の</w-b><w-b>生活、</w-b><w-b>老後まで</w-b><w-b>関わります。</w-b><w-b>一つの</w-b><w-b>決断を、</w-b><w-b>複数の</w-b><w-b>視点から</w-b><w-b>考える</w-b><w-b>ための</w-b><w-b>確認です。</w-b></p><p><w-b>結果を</w-b><w-b>見る</w-b><w-b>ときは、</w-b><w-b>できている</w-b><w-b>ことも</w-b><w-b>受け止めてください。</w-b><w-b>そのうえで、</w-b><w-b>自分の</w-b><w-b>願いに</w-b><w-b>とって、</w-b><w-b>次に</w-b><w-b>何を</w-b><w-b>整えたいかを</w-b><w-b>選びます。</w-b><w-b>全部を</w-b><w-b>一度に</w-b><w-b>変える</w-b><w-b>必要は</w-b><w-b>ありません。</w-b></p><p><w-b>ここで</w-b><w-b>見つかった</w-b><w-b>未設計が、</w-b><w-b>LIFE ACADEMY42で</w-b><w-b>学ぶ内容に</w-b><w-b>つながります。</w-b><w-b>自分に</w-b><w-b>必要な</w-b><w-b>ことが</w-b><w-b>見えるから、</w-b><w-b>学ぶ</w-b><w-b>時間にも</w-b><w-b>意味が</w-b><w-b>生まれます。</w-b></p></div></details></div></section>
+<section class="chapter ch" id="check"><div class="ch-head"><p class="eyebrow">LIFE Check42</p><h2 data-fit="" style="--fit:7.884vw;--fit-cap:27px"><w-b>知らなかったことに、</w-b><br/><w-b>今、</w-b><w-b>出会える</w-b><w-b>価値が</w-b><w-b>ある。</w-b></h2><p class="pull ch-lead" data-fit="" style="--fit:4.683vw;--fit-cap:19px"><w-b>「知らなかった」を、</w-b><br/><w-b>「今から</w-b><w-b>考えられる」に</w-b><w-b>変えていこう。</w-b></p></div><div class="chapter-visual screen-visual"><figure class="shot-panel"><div class="phones"><div class="phone"><img alt="LIFE Check42 の画面" decoding="async" height="1298" loading="lazy" src="../shots/check42.webp" width="600"/></div></div><figcaption><w-b>LIFE Check42の</w-b><w-b>画面</w-b><w-b>（結果は</w-b><w-b>サンプルです）。</w-b><w-b>入力内容は</w-b><w-b>その</w-b><w-b>端末だけに</w-b><w-b>保存されます</w-b></figcaption></figure><div class="photo-label"><span>04</span>
+<p>LIFE Check42</p></div></div><div class="ch-body"><div class="can"><p class="can-label"><w-b>できる</w-b><w-b>こと</w-b></p><ul><li><w-b>お金・住まい・万が一・</w-b><w-b>健康・災害・老後の</w-b><w-b>42問に、</w-b><w-b>4択で</w-b><w-b>答える</w-b><w-b>（約5分）</w-b></li><li><w-b>6つの</w-b><w-b>テーマの</w-b><w-b>バランスを、</w-b><w-b>1枚の</w-b><w-b>レーダーチャートで</w-b><w-b>見る</w-b></li><li><w-b>何度でも</w-b><w-b>やり直して、</w-b><w-b>次に</w-b><w-b>整えたい</w-b><w-b>テーマを</w-b><w-b>選ぶ</w-b></li></ul></div><details class="more"><summary><span class="t-open"><w-b>詳しく</w-b><w-b>読む</w-b></span><span class="t-close"><w-b>閉じる</w-b></span></summary><div class="prose"><p><w-b>未来に</w-b><w-b>置いた、</w-b><w-b>楽しみに</w-b><w-b>したい</w-b><w-b>場面。</w-b><w-b>その</w-b><w-b>ために、</w-b><w-b>どこまで</w-b><w-b>準備できているでしょうか。</w-b><w-b>自分では</w-b><w-b>大丈夫だと</w-b><w-b>思っていても、</w-b><w-b>まだ</w-b><w-b>一度も</w-b><w-b>考えた</w-b><w-b>ことの</w-b><w-b>ない</w-b><w-b>領域が</w-b><w-b>あるかもしれません。</w-b></p><p><w-b>LIFE Check42は、</w-b><w-b>お金・住まい・万が一・</w-b><w-b>健康・災害・老後という</w-b><w-b>６つの</w-b><w-b>テーマを、</w-b><w-b>各７問、</w-b><w-b>合計42の</w-b><w-b>問いで</w-b><w-b>確かめる</w-b><w-b>機会です。</w-b><w-b>今の</w-b><w-b>理解や</w-b><w-b>備えを</w-b><w-b>振り返り、</w-b><w-b>人生の</w-b><w-b>「未設計」を</w-b><w-b>見つけます。</w-b></p><p><w-b>未設計とは、</w-b><w-b>まだ</w-b><w-b>考えられていない</w-b><w-b>こと、</w-b><w-b>備えられていない</w-b><w-b>ことです。</w-b><w-b>「分からない」と</w-b><w-b>気づけたら、</w-b><w-b>そこから</w-b><w-b>学び、</w-b><w-b>確かめる</w-b><w-b>ことができます。</w-b><w-b>問いに</w-b><w-b>出会う</w-b><w-b>こと</w-b><w-b>自体が、</w-b><w-b>未来の</w-b><w-b>自分への</w-b><w-b>準備に</w-b><w-b>なります。</w-b></p><p><w-b>６つの</w-b><w-b>テーマは、</w-b><w-b>暮らしの</w-b><w-b>中で</w-b><w-b>つながっています。</w-b><w-b>住まいを</w-b><w-b>選ぶ</w-b><w-b>ときにも、</w-b><w-b>支払いだけでなく、</w-b><w-b>健康、</w-b><w-b>災害への</w-b><w-b>備え、</w-b><w-b>万が一の</w-b><w-b>家族の</w-b><w-b>生活、</w-b><w-b>老後まで</w-b><w-b>関わります。</w-b><w-b>一つの</w-b><w-b>決断を、</w-b><w-b>複数の</w-b><w-b>視点から</w-b><w-b>考える</w-b><w-b>ための</w-b><w-b>確認です。</w-b></p><p><w-b>結果を</w-b><w-b>見る</w-b><w-b>ときは、</w-b><w-b>できている</w-b><w-b>ことも</w-b><w-b>受け止めてください。</w-b><w-b>そのうえで、</w-b><w-b>自分の</w-b><w-b>願いに</w-b><w-b>とって、</w-b><w-b>次に</w-b><w-b>何を</w-b><w-b>整えたいかを</w-b><w-b>選びます。</w-b><w-b>全部を</w-b><w-b>一度に</w-b><w-b>変える</w-b><w-b>必要は</w-b><w-b>ありません。</w-b></p><p><w-b>ここで</w-b><w-b>見つかった</w-b><w-b>未設計が、</w-b><w-b>LIFE ACADEMY42で</w-b><w-b>学ぶ内容に</w-b><w-b>つながります。</w-b><w-b>自分に</w-b><w-b>必要な</w-b><w-b>ことが</w-b><w-b>見えるから、</w-b><w-b>学ぶ</w-b><w-b>時間にも</w-b><w-b>意味が</w-b><w-b>生まれます。</w-b></p></div></details></div></section>
 <section class="academy" id="academy">
 <div class="academy-intro section">
 <p class="eyebrow">05 / LIFE ACADEMY42 &amp; QUEST</p>
@@ -78,8 +78,8 @@
 <p data-fit="" style="--fit:4.104vw;--fit-cap:15px"><w-b>18本から、</w-b><w-b>未設計に</w-b><w-b>対応する</w-b><w-b>内容へ。</w-b></p></div>
 <div><span>FEEL &amp; REMEMBER</span>
 <h3><w-b>QUESTを</w-b><w-b>読む・聴く</w-b></h3>
-<p data-fit="" style="--fit:3.901vw;--fit-cap:15px"><w-b>物語の</w-b><w-b>最初から、</w-b><w-b>順番に</w-b><w-b>冒険を</w-b><w-b>楽しむ。</w-b></p></div></div><ol class="flow flow-h flow-academy"><li><strong><w-b>Check42で</w-b><w-b>気づく</w-b></strong><span><w-b>まだ</w-b><w-b>考えていない</w-b><w-b>テーマが</w-b><w-b>分かる</w-b></span></li><li><strong><w-b>ACADEMYで</w-b><w-b>学ぶ</w-b></strong><span><w-b>必要な</w-b><w-b>内容を</w-b><w-b>動画で</w-b><w-b>学ぶ</w-b></span></li><li><strong><w-b>QUESTで</w-b><w-b>感じる</w-b></strong><span><w-b>物語で、</w-b><w-b>その</w-b><w-b>大切さを</w-b><w-b>感じる</w-b></span></li><li><strong><w-b>ミオ先生と</w-b><w-b>整理する</w-b></strong><span><w-b>感じた</w-b><w-b>ことを</w-b><w-b>言葉に</w-b><w-b>する</w-b></span></li><li><strong><w-b>ROADMAPに</w-b><w-b>つなぐ</w-b></strong><span><w-b>人生設計書に</w-b><w-b>まとめる</w-b></span></li></ol><div class="academy-row"><div class="can"><p class="can-label"><w-b>できる</w-b><w-b>こと</w-b></p><ul><li><w-b>Check42の</w-b><w-b>結果に</w-b><w-b>合わせて、</w-b><w-b>動画を</w-b><w-b>選んで</w-b><w-b>学ぶ</w-b></li><li><w-b>冒険物語</w-b><w-b>『REALIZE QUEST THE ONE』を</w-b><w-b>最初から</w-b><w-b>読み進める</w-b></li><li><w-b>心に</w-b><w-b>残った</w-b><w-b>ことを</w-b><w-b>ミオ先生に</w-b><w-b>話し、</w-b><w-b>自分の</w-b><w-b>願いに</w-b><w-b>気づく</w-b></li></ul></div><figure class="pc-panel"><div class="browsers"><div class="browser"><img alt="物語 REALIZE QUEST THE ONE の電子書籍" decoding="async" height="900" loading="lazy" src="../shots/pc-quest.webp" width="1000"/></div></div><figcaption><w-b>物語</w-b><w-b>『REALIZE QUEST THE ONE』</w-b><w-b>（電子書籍版）</w-b></figcaption></figure></div></div>
-<article class="chapter ch academy-chapter"><div class="ch-head"><p class="eyebrow">LIFE ACADEMY</p><h3 data-fit="" style="--fit:6.508vw;--fit-cap:26px">LIFE ACADEMY<br/><w-b>この</w-b><w-b>冒険が、</w-b><w-b>５年後、</w-b><w-b>１０年後の</w-b><br/><w-b>あなたの</w-b><w-b>選択を</w-b><w-b>支えますように。</w-b></h3></div><div class="chapter-visual screen-visual"><figure class="pc-panel"><div class="browsers"><div class="browser"><img alt="LIFE Academy の本棚の画面" decoding="async" height="856" loading="lazy" src="../shots/pc-academy.webp" width="892"/></div></div><figcaption><w-b>LIFE Academyの</w-b><w-b>本棚画面</w-b></figcaption></figure></div><div class="ch-body"><div class="prose"><p><w-b>社会人と</w-b><w-b>して</w-b><w-b>歩み始める</w-b><w-b>あなたへ。</w-b><br/><w-b>これからの</w-b><w-b>人生には、</w-b><w-b>たくさんの</w-b><w-b>出会いと</w-b><w-b>選択が</w-b><w-b>待っています。</w-b></p></div><figure class="pc-panel"><div class="browsers"><div class="browser"><img alt="LIFE Academy のコースの画面" decoding="async" height="810" loading="lazy" src="../shots/pc-academy-course.webp" width="1054"/></div></div><figcaption><w-b>コースの</w-b><w-b>動画ページ。</w-b><w-b>見終えると</w-b><w-b>修了クイズに</w-b><w-b>進めます</w-b></figcaption></figure><details class="more"><summary><span class="t-open"><w-b>詳しく</w-b><w-b>読む</w-b></span><span class="t-close"><w-b>閉じる</w-b></span></summary><div class="prose"><p><w-b>初めての</w-b><w-b>給料を</w-b><w-b>どう</w-b><w-b>使うか。</w-b><w-b>どんな</w-b><w-b>暮らしを</w-b><w-b>したいか。</w-b><w-b>誰と、</w-b><w-b>どんな</w-b><w-b>未来を</w-b><w-b>つくるか。</w-b><w-b>そして、</w-b><w-b>自分や</w-b><w-b>大切な</w-b><w-b>人を</w-b><w-b>どう</w-b><w-b>守っていくか。</w-b></p><p><w-b>その</w-b><w-b>一つ</w-b><w-b>ひとつは、</w-b><w-b>ひとつなぎの</w-b><w-b>人生に</w-b><w-b>なっていきます。</w-b></p><p><w-b>LIFE ACADEMYは、</w-b><w-b>あなたが</w-b><w-b>自分の</w-b><w-b>人生を</w-b><w-b>考え、</w-b><w-b>大切な</w-b><w-b>ものを</w-b><w-b>守りながら</w-b><w-b>未来を</w-b><w-b>選んでいく</w-b><w-b>ための、</w-b><w-b>人生教育です。</w-b></p><p><w-b>自分に</w-b><w-b>必要な</w-b><w-b>ことから、</w-b><w-b>学ぶ。</w-b></p><p><w-b>最初の</w-b><w-b>入口は、</w-b><w-b>LIFE Check42。</w-b><br/><w-b>お金・住まい・万が一・</w-b><w-b>健康・災害・老後という</w-b><w-b>６つの</w-b><w-b>テーマから、</w-b><w-b>まだ</w-b><w-b>考えられていない</w-b><w-b>こと、</w-b><w-b>備えられていない</w-b><w-b>こと</w-b><w-b>——人生の</w-b><w-b>「未設計」を</w-b><w-b>見つけます。</w-b></p><p><w-b>その</w-b><w-b>結果に</w-b><w-b>合わせて、</w-b><w-b>18本の</w-b><w-b>eラーニング動画の</w-b><w-b>中から、</w-b><w-b>自分に</w-b><w-b>必要な</w-b><w-b>内容を</w-b><w-b>学びます。</w-b></p><p><w-b>自分との</w-b><w-b>つながりが</w-b><w-b>分かるから、</w-b><w-b>学ぶ</w-b><w-b>理由が</w-b><w-b>見えてくる。</w-b><w-b>知識を</w-b><w-b>得る</w-b><w-b>ことで、</w-b><w-b>これから</w-b><w-b>何を</w-b><w-b>考え、</w-b><w-b>何を</w-b><w-b>準備すれば</w-b><w-b>よいかが、</w-b><w-b>少し</w-b><w-b>ずつ</w-b><w-b>見えてきます。</w-b></p></div></details></div></article>
+<p data-fit="" style="--fit:3.901vw;--fit-cap:15px"><w-b>物語の</w-b><w-b>最初から、</w-b><w-b>順番に</w-b><w-b>冒険を</w-b><w-b>楽しむ。</w-b></p></div></div><ol class="flow flow-h flow-academy"><li><strong><w-b>Check42で</w-b><w-b>気づく</w-b></strong><span><w-b>まだ</w-b><w-b>考えていない</w-b><w-b>テーマが</w-b><w-b>分かる</w-b></span></li><li><strong><w-b>ACADEMYで</w-b><w-b>学ぶ</w-b></strong><span><w-b>必要な</w-b><w-b>内容を</w-b><w-b>動画で</w-b><w-b>学ぶ</w-b></span></li><li><strong><w-b>QUESTで</w-b><w-b>感じる</w-b></strong><span><w-b>物語で、</w-b><w-b>その</w-b><w-b>大切さを</w-b><w-b>感じる</w-b></span></li><li><strong><w-b>ミオ先生と</w-b><w-b>整理する</w-b></strong><span><w-b>感じた</w-b><w-b>ことを</w-b><w-b>言葉に</w-b><w-b>する</w-b></span></li><li><strong><w-b>ROADMAPに</w-b><w-b>つなぐ</w-b></strong><span><w-b>人生設計書に</w-b><w-b>まとめる</w-b></span></li></ol><div class="academy-row"><div class="can"><p class="can-label"><w-b>できる</w-b><w-b>こと</w-b></p><ul><li><w-b>Check42の</w-b><w-b>結果に</w-b><w-b>合わせて、</w-b><w-b>動画を</w-b><w-b>選んで</w-b><w-b>学ぶ</w-b></li><li><w-b>冒険物語</w-b><w-b>『REALIZE QUEST THE ONE』を</w-b><w-b>最初から</w-b><w-b>読み進める</w-b></li><li><w-b>心に</w-b><w-b>残った</w-b><w-b>ことを</w-b><w-b>ミオ先生に</w-b><w-b>話し、</w-b><w-b>自分の</w-b><w-b>願いに</w-b><w-b>気づく</w-b></li></ul></div><figure class="shot-panel"><div class="phones"><div class="phone"><img alt="物語 REALIZE QUEST THE ONE の表紙" decoding="async" height="1298" loading="lazy" src="../shots/quest.webp" width="600"/></div></div><figcaption><w-b>物語</w-b><w-b>『REALIZE QUEST THE ONE』</w-b><w-b>（電子書籍版）</w-b></figcaption></figure></div></div>
+<article class="chapter ch academy-chapter no-visual"><div class="ch-head"><p class="eyebrow">LIFE ACADEMY</p><h3 data-fit="" style="--fit:6.508vw;--fit-cap:26px">LIFE ACADEMY<br/><w-b>この</w-b><w-b>冒険が、</w-b><w-b>５年後、</w-b><w-b>１０年後の</w-b><br/><w-b>あなたの</w-b><w-b>選択を</w-b><w-b>支えますように。</w-b></h3></div><div class="ch-body"><div class="prose"><p><w-b>社会人と</w-b><w-b>して</w-b><w-b>歩み始める</w-b><w-b>あなたへ。</w-b><br/><w-b>これからの</w-b><w-b>人生には、</w-b><w-b>たくさんの</w-b><w-b>出会いと</w-b><w-b>選択が</w-b><w-b>待っています。</w-b></p></div><details class="more"><summary><span class="t-open"><w-b>詳しく</w-b><w-b>読む</w-b></span><span class="t-close"><w-b>閉じる</w-b></span></summary><div class="prose"><p><w-b>初めての</w-b><w-b>給料を</w-b><w-b>どう</w-b><w-b>使うか。</w-b><w-b>どんな</w-b><w-b>暮らしを</w-b><w-b>したいか。</w-b><w-b>誰と、</w-b><w-b>どんな</w-b><w-b>未来を</w-b><w-b>つくるか。</w-b><w-b>そして、</w-b><w-b>自分や</w-b><w-b>大切な</w-b><w-b>人を</w-b><w-b>どう</w-b><w-b>守っていくか。</w-b></p><p><w-b>その</w-b><w-b>一つ</w-b><w-b>ひとつは、</w-b><w-b>ひとつなぎの</w-b><w-b>人生に</w-b><w-b>なっていきます。</w-b></p><p><w-b>LIFE ACADEMYは、</w-b><w-b>あなたが</w-b><w-b>自分の</w-b><w-b>人生を</w-b><w-b>考え、</w-b><w-b>大切な</w-b><w-b>ものを</w-b><w-b>守りながら</w-b><w-b>未来を</w-b><w-b>選んでいく</w-b><w-b>ための、</w-b><w-b>人生教育です。</w-b></p><p><w-b>自分に</w-b><w-b>必要な</w-b><w-b>ことから、</w-b><w-b>学ぶ。</w-b></p><p><w-b>最初の</w-b><w-b>入口は、</w-b><w-b>LIFE Check42。</w-b><br/><w-b>お金・住まい・万が一・</w-b><w-b>健康・災害・老後という</w-b><w-b>６つの</w-b><w-b>テーマから、</w-b><w-b>まだ</w-b><w-b>考えられていない</w-b><w-b>こと、</w-b><w-b>備えられていない</w-b><w-b>こと</w-b><w-b>——人生の</w-b><w-b>「未設計」を</w-b><w-b>見つけます。</w-b></p><p><w-b>その</w-b><w-b>結果に</w-b><w-b>合わせて、</w-b><w-b>18本の</w-b><w-b>eラーニング動画の</w-b><w-b>中から、</w-b><w-b>自分に</w-b><w-b>必要な</w-b><w-b>内容を</w-b><w-b>学びます。</w-b></p><p><w-b>自分との</w-b><w-b>つながりが</w-b><w-b>分かるから、</w-b><w-b>学ぶ</w-b><w-b>理由が</w-b><w-b>見えてくる。</w-b><w-b>知識を</w-b><w-b>得る</w-b><w-b>ことで、</w-b><w-b>これから</w-b><w-b>何を</w-b><w-b>考え、</w-b><w-b>何を</w-b><w-b>準備すれば</w-b><w-b>よいかが、</w-b><w-b>少し</w-b><w-b>ずつ</w-b><w-b>見えてきます。</w-b></p></div></details></div></article>
 <article class="chapter ch academy-chapter"><div class="ch-head"><p class="eyebrow">LIFE ACADEMY</p><h3 data-fit="" style="--fit:6.135vw;--fit-cap:26px"><w-b>そして、</w-b><w-b>人生を</w-b><w-b>心で</w-b><w-b>感じる</w-b><w-b>冒険へ。</w-b></h3></div><div class="chapter-visual">
 <img alt="物語に心を動かされながら読書する" decoding="async" height="1024" loading="lazy" src="../assets/read.webp?v=2" width="1536"/></div><div class="ch-body"><div class="prose"><p><w-b>動画での</w-b><w-b>学びと</w-b><w-b>並行して</w-b><w-b>楽しむのが、</w-b><w-b>冒険物語</w-b><w-b>『REALIZE QUEST THE ONE』です。</w-b></p></div><details class="more"><summary><span class="t-open"><w-b>詳しく</w-b><w-b>読む</w-b></span><span class="t-close"><w-b>閉じる</w-b></span></summary><div class="prose"><p><w-b>最初の</w-b><w-b>ページから</w-b><w-b>旅を</w-b><w-b>共にし、</w-b><w-b>登場人物と</w-b><w-b>出会い、</w-b><w-b>迷い、</w-b><w-b>選びながら、</w-b><w-b>人生全体に</w-b><w-b>触れていきます。</w-b></p><p><w-b>旅立つ勇気。</w-b><w-b>送り出す父と</w-b><w-b>母の</w-b><w-b>寂しさと</w-b><w-b>愛。</w-b><w-b>そばに</w-b><w-b>いてくれる</w-b><w-b>人の</w-b><w-b>存在。</w-b><w-b>何気ない</w-b><w-b>日常が</w-b><w-b>続く</w-b><w-b>ことの</w-b><w-b>尊さ。</w-b></p><p><w-b>言葉から</w-b><w-b>情景を</w-b><w-b>思い描くうちに、</w-b><w-b>登場人物の</w-b><w-b>気持ちに、</w-b><w-b>自分の</w-b><w-b>経験や</w-b><w-b>大切な</w-b><w-b>人の</w-b><w-b>姿が</w-b><w-b>重なっていく。</w-b><w-b>その</w-b><w-b>場面で</w-b><w-b>感じた</w-b><w-b>ことと</w-b><w-b>一緒に、</w-b><w-b>生きていく</w-b><w-b>うえで</w-b><w-b>大事な</w-b><w-b>知識が</w-b><w-b>心に</w-b><w-b>残っていきます。</w-b></p><p><w-b>動画で、</w-b><w-b>必要な</w-b><w-b>知識を</w-b><w-b>理解する。</w-b><br/><w-b>物語で、</w-b><w-b>その</w-b><w-b>知識が</w-b><w-b>大切な</w-b><w-b>理由を</w-b><w-b>心に</w-b><w-b>刻む。</w-b></p><p><w-b>この</w-b><w-b>２つを</w-b><w-b>重ねる</w-b><w-b>ことで、</w-b><w-b>人生の</w-b><w-b>学びを</w-b><w-b>一人ひとりの</w-b><w-b>日常へと</w-b><w-b>浸透させていく。</w-b><w-b>それが、</w-b><w-b>LIFE ACADEMYの</w-b><w-b>学び方です。</w-b></p></div></details></div></article>
 <article class="chapter ch academy-chapter no-visual"><div class="ch-head"><p class="eyebrow">LIFE ACADEMY</p><h3><w-b>「続きが</w-b><w-b>気に</w-b><w-b>なる」が、</w-b><br/><w-b>学びに</w-b><w-b>つながる。</w-b></h3></div><div class="ch-body"><div class="prose"><p><w-b>お気に入りの</w-b><w-b>連続ドラマを</w-b><w-b>楽しむように、</w-b><w-b>次の</w-b><w-b>展開が</w-b><w-b>気に</w-b><w-b>なり、</w-b><w-b>登場人物の</w-b><w-b>旅を</w-b><w-b>見届けたくなる。</w-b><w-b>その</w-b><w-b>冒険に</w-b><w-b>没入する</w-b><w-b>時間が、</w-b><w-b>自分の</w-b><w-b>人生を</w-b><w-b>考える</w-b><w-b>時間にも</w-b><w-b>なっていきます。</w-b></p></div><details class="more"><summary><span class="t-open"><w-b>詳しく</w-b><w-b>読む</w-b></span><span class="t-close"><w-b>閉じる</w-b></span></summary><div class="prose"><p><w-b>物語は、</w-b><w-b>自分の</w-b><w-b>ペースで</w-b><w-b>読むことも、</w-b><w-b>いつも</w-b><w-b>相談している</w-b><w-b>ミオ先生の</w-b><w-b>声で</w-b><w-b>聴くこともできます。</w-b></p><p><w-b>文字で</w-b><w-b>話してきた</w-b><w-b>ミオ先生が、</w-b><w-b>今度は</w-b><w-b>声で</w-b><w-b>物語へ</w-b><w-b>案内してくれる。</w-b><w-b>今日は</w-b><w-b>自分で</w-b><w-b>読みたい。</w-b><w-b>今日は</w-b><w-b>ミオ先生に</w-b><w-b>読んで</w-b><w-b>もらいたい。</w-b><w-b>その</w-b><w-b>日の</w-b><w-b>気分で</w-b><w-b>選びながら、</w-b><w-b>前回の</w-b><w-b>続きから</w-b><w-b>旅を</w-b><w-b>楽しめます。</w-b></p><p><w-b>心に</w-b><w-b>残った</w-b><w-b>ことが</w-b><w-b>あれば、</w-b><w-b>ミオ先生に</w-b><w-b>話してみてください。</w-b><w-b>物語の</w-b><w-b>感想から、</w-b><w-b>自分の</w-b><w-b>願いや</w-b><w-b>不安に</w-b><w-b>気づく</w-b><w-b>こともあるでしょう。</w-b><w-b>その</w-b><w-b>気づきを、</w-b><w-b>相談や、</w-b><w-b>これからの</w-b><w-b>人生設計に</w-b><w-b>つなげていけます。</w-b></p></div></details></div></article>
@@ -91,7 +91,7 @@
 <img alt="想いを分かち合うための時間を表したイメージ" decoding="async" height="1024" loading="lazy" src="../assets/family.webp?v=2" width="1536"/>
 <div class="photo-label"><span>07</span>
 <p>LIFE Meeting</p></div></div><div class="ch-body"><div class="can"><p class="can-label"><w-b>できる</w-b><w-b>こと</w-b></p><ul><li><w-b>見つけた</w-b><w-b>願いや</w-b><w-b>計画を、</w-b><w-b>家族や</w-b><w-b>パートナーに</w-b><w-b>伝える</w-b></li><li><w-b>相手の</w-b><w-b>願いも</w-b><w-b>聞き、</w-b><w-b>違いを</w-b><w-b>知る</w-b></li><li><w-b>まだ</w-b><w-b>話す準備が</w-b><w-b>ない</w-b><w-b>ときは、</w-b><w-b>ミオ先生と</w-b><w-b>気持ちを</w-b><w-b>整理する</w-b></li></ul></div><figure class="talk-card"><p class="talk-label"><w-b>たとえば、</w-b><w-b>こんな</w-b><w-b>一言から</w-b></p><p class="talk"><w-b>「いつか</w-b><w-b>こんな</w-b><w-b>暮らしを</w-b><w-b>してみたい」</w-b></p><p class="talk"><w-b>「これからも、</w-b><w-b>この</w-b><w-b>時間を</w-b><w-b>大切に</w-b><w-b>したい」</w-b></p></figure><details class="more"><summary><span class="t-open"><w-b>詳しく</w-b><w-b>読む</w-b></span><span class="t-close"><w-b>閉じる</w-b></span></summary><div class="prose"><p><w-b>「きっと</w-b><w-b>同じ</w-b><w-b>気持ちだと</w-b><w-b>思っていた」。</w-b><w-b>近しい</w-b><w-b>人との</w-b><w-b>間でも、</w-b><w-b>話して</w-b><w-b>初めて</w-b><w-b>気づく</w-b><w-b>ことがあります。</w-b><w-b>一緒に</w-b><w-b>過ごす時間が</w-b><w-b>長いほど、</w-b><w-b>改めて</w-b><w-b>聞く</w-b><w-b>機会が</w-b><w-b>少なくなっているのかもしれません。</w-b></p><p><w-b>LIFE Meetingは、</w-b><w-b>ここまでに</w-b><w-b>見つけた</w-b><w-b>願いや</w-b><w-b>計画を、</w-b><w-b>大切な</w-b><w-b>人と</w-b><w-b>分かち合う</w-b><w-b>時間です。</w-b><w-b>親、</w-b><w-b>パートナー、</w-b><w-b>家族など、</w-b><w-b>あなたが</w-b><w-b>話したい</w-b><w-b>相手と、</w-b><w-b>これから</w-b><w-b>どんな</w-b><w-b>時間を</w-b><w-b>過ごしたいかを</w-b><w-b>考えます。</w-b></p><p><w-b>最初から</w-b><w-b>大きな</w-b><w-b>決断を</w-b><w-b>話し合う</w-b><w-b>必要は</w-b><w-b>ありません。</w-b><w-b>「いつか</w-b><w-b>こんな</w-b><w-b>暮らしを</w-b><w-b>してみたい」</w-b><w-b>「これからも、</w-b><w-b>この</w-b><w-b>時間を</w-b><w-b>大切に</w-b><w-b>したい」。</w-b><w-b>自分が</w-b><w-b>楽しみに</w-b><w-b>している</w-b><w-b>未来から、</w-b><w-b>伝えてみてください。</w-b></p><p><w-b>そして、</w-b><w-b>相手の</w-b><w-b>願いにも</w-b><w-b>耳を</w-b><w-b>傾けます。</w-b><w-b>自分には</w-b><w-b>何気ない</w-b><w-b>ことが、</w-b><w-b>相手には</w-b><w-b>大切な</w-b><w-b>ことかもしれません。</w-b><w-b>違いが</w-b><w-b>あれば、</w-b><w-b>すぐに</w-b><w-b>結論を</w-b><w-b>出さず、</w-b><w-b>まずは</w-b><w-b>その</w-b><w-b>想いを</w-b><w-b>知る</w-b><w-b>ところから</w-b><w-b>始められます。</w-b></p><p><w-b>今は</w-b><w-b>誰かと</w-b><w-b>話す準備が</w-b><w-b>できていない</w-b><w-b>こともあるでしょう。</w-b><w-b>その</w-b><w-b>ときは、</w-b><w-b>自分の</w-b><w-b>気持ちを</w-b><w-b>言葉に</w-b><w-b>したり、</w-b><w-b>ミオ先生と</w-b><w-b>整理したりする</w-b><w-b>時間に</w-b><w-b>できます。</w-b><w-b>誰に、</w-b><w-b>何を、</w-b><w-b>いつ</w-b><w-b>伝えるかは、</w-b><w-b>自分で</w-b><w-b>選べます。</w-b></p><p><w-b>人生には、</w-b><w-b>自分の</w-b><w-b>選択が</w-b><w-b>大切な</w-b><w-b>人の</w-b><w-b>暮らしに</w-b><w-b>つながる</w-b><w-b>場面が</w-b><w-b>あります。</w-b><w-b>だから、</w-b><w-b>願いを</w-b><w-b>持ち寄る</w-b><w-b>ことにも</w-b><w-b>意味が</w-b><w-b>ある。</w-b><w-b>一緒に</w-b><w-b>考えた</w-b><w-b>時間が、</w-b><w-b>その後の</w-b><w-b>選択を</w-b><w-b>支えてくれるかもしれません。</w-b></p></div></details></div></section>
-<section class="chapter ch" id="consult"><div class="ch-head"><p class="eyebrow">LIFE Consult</p><h2><w-b>自分で</w-b><w-b>選ぶために、</w-b><br/><w-b>誰かの</w-b><w-b>力を</w-b><w-b>借りていい。</w-b></h2><p class="pull ch-lead" data-fit="" style="--fit:5.608vw;--fit-cap:19px"><w-b>相談する</w-b><w-b>ことも、</w-b><br/><w-b>自分の</w-b><w-b>人生を</w-b><w-b>動かす</w-b><w-b>一歩に</w-b><w-b>なる。</w-b></p></div><div class="chapter-visual screen-visual"><figure class="pc-panel"><div class="browsers"><div class="browser"><img alt="社内専門相談窓口の画面" decoding="async" height="640" loading="lazy" src="../shots/pc-consult.webp" width="1000"/></div></div><figcaption><w-b>会員ページの</w-b><w-b>社内専門相談窓口</w-b></figcaption></figure><div class="photo-label"><span>08</span>
+<section class="chapter ch" id="consult"><div class="ch-head"><p class="eyebrow">LIFE Consult</p><h2><w-b>自分で</w-b><w-b>選ぶために、</w-b><br/><w-b>誰かの</w-b><w-b>力を</w-b><w-b>借りていい。</w-b></h2><p class="pull ch-lead" data-fit="" style="--fit:5.608vw;--fit-cap:19px"><w-b>相談する</w-b><w-b>ことも、</w-b><br/><w-b>自分の</w-b><w-b>人生を</w-b><w-b>動かす</w-b><w-b>一歩に</w-b><w-b>なる。</w-b></p></div><div class="chapter-visual screen-visual"><figure class="shot-panel"><div class="phones"><div class="phone"><img alt="社内専門相談窓口の画面" decoding="async" height="1298" loading="lazy" src="../shots/consult.webp" width="600"/></div></div><figcaption><w-b>会員ページの</w-b><w-b>社内専門相談窓口</w-b></figcaption></figure><div class="photo-label"><span>08</span>
 <p>LIFE Consult</p></div></div><div class="ch-body"><div class="can"><p class="can-label"><w-b>できる</w-b><w-b>こと</w-b></p><ul><li><w-b>保険・賃貸・</w-b><w-b>マイホーム購入・</w-b><w-b>注文住宅・</w-b><w-b>リフォームの</w-b><w-b>5つの</w-b><w-b>窓口から</w-b><w-b>選ぶ</w-b></li><li><w-b>会員ページの</w-b><w-b>フォームから</w-b><w-b>申し込み、</w-b><w-b>担当者からの</w-b><w-b>連絡を</w-b><w-b>受ける</w-b></li><li><w-b>その</w-b><w-b>場で</w-b><w-b>決めるよう</w-b><w-b>急かされず、</w-b><w-b>「今は</w-b><w-b>要らない」と</w-b><w-b>決めても</w-b><w-b>よい</w-b></li></ul></div><details class="more"><summary><span class="t-open"><w-b>詳しく</w-b><w-b>読む</w-b></span><span class="t-close"><w-b>閉じる</w-b></span></summary><div class="prose"><p><w-b>学んだから</w-b><w-b>こそ、</w-b><w-b>具体的な</w-b><w-b>疑問が</w-b><w-b>生まれる</w-b><w-b>ことがあります。</w-b><w-b>「考え方は</w-b><w-b>分かったけれど、</w-b><w-b>自分の</w-b><w-b>場合は</w-b><w-b>どうだろう」。</w-b><w-b>その</w-b><w-b>問いを</w-b><w-b>持てるようになった</w-b><w-b>ことも、</w-b><w-b>この</w-b><w-b>旅で</w-b><w-b>得た力です。</w-b></p><p><w-b>LIFE Consultでは、</w-b><w-b>自分の</w-b><w-b>状況や</w-b><w-b>願いを</w-b><w-b>踏まえ、</w-b><w-b>必要な</w-b><w-b>専門家への</w-b><w-b>相談に</w-b><w-b>つなげます。</w-b><w-b>まずは</w-b><w-b>ミオ先生と、</w-b><w-b>何に</w-b><w-b>迷っているのか、</w-b><w-b>何を</w-b><w-b>確認したいのか、</w-b><w-b>どんな</w-b><w-b>未来を</w-b><w-b>大切に</w-b><w-b>したいのかを</w-b><w-b>整理します。</w-b></p><p><w-b>相談の</w-b><w-b>前に、</w-b><w-b>自分の</w-b><w-b>問いが</w-b><w-b>見えていると、</w-b><w-b>聞きたい</w-b><w-b>ことを</w-b><w-b>伝えやすくなります。</w-b><w-b>説明を</w-b><w-b>受けた</w-b><w-b>ときも、</w-b><w-b>自分の</w-b><w-b>暮らし全体に</w-b><w-b>合うか、</w-b><w-b>ほかに</w-b><w-b>確かめたい</w-b><w-b>ことは</w-b><w-b>ないかと、</w-b><w-b>考えながら話を</w-b><w-b>進められます。</w-b></p><p><w-b>専門家に</w-b><w-b>引き継ぐ</w-b><w-b>内容や</w-b><w-b>共有する</w-b><w-b>範囲は、</w-b><w-b>本人が</w-b><w-b>確認します。</w-b><w-b>自分に</w-b><w-b>とって</w-b><w-b>必要な</w-b><w-b>相談を、</w-b><w-b>自分で</w-b><w-b>選びながら</w-b><w-b>進めていきます。</w-b><w-b>まず</w-b><w-b>整理するだけでも、</w-b><w-b>今は</w-b><w-b>相談せずに</w-b><w-b>考える</w-b><w-b>時間を</w-b><w-b>取ってもかまいません。</w-b></p><p><w-b>大切な</w-b><w-b>選択ほど、</w-b><w-b>一人で</w-b><w-b>抱え込まなくていい。</w-b><w-b>知識や</w-b><w-b>経験を</w-b><w-b>借りる</w-b><w-b>ことで、</w-b><w-b>自分では</w-b><w-b>気づかなかった</w-b><w-b>視点に</w-b><w-b>出会えます。</w-b><w-b>そのうえで、</w-b><w-b>自分が</w-b><w-b>納得できる</w-b><w-b>判断を</w-b><w-b>していく</w-b><w-b>ことを</w-b><w-b>大切に</w-b><w-b>します。</w-b></p><p><w-b>相談した</w-b><w-b>あとにも</w-b><w-b>人生は</w-b><w-b>続きます。</w-b><w-b>行動してみて、</w-b><w-b>暮らしが</w-b><w-b>変われば、</w-b><w-b>また</w-b><w-b>確かめる。</w-b><w-b>必要な</w-b><w-b>ときに</w-b><w-b>戻って</w-b><w-b>こられる</w-b><w-b>入口と</w-b><w-b>して、</w-b><w-b>LIFE Consultが</w-b><w-b>あります。</w-b></p></div></details></div></section>
 <section class="how" id="how"><div class="section">
 <p class="eyebrow">HOW IT WORKS</p>
@@ -103,7 +103,7 @@
 <li><strong><w-b>必要な</w-b><w-b>ときに、</w-b><w-b>ミオ先生や</w-b><w-b>専門の</w-b><w-b>窓口に</w-b><w-b>相談する</w-b></strong></li>
 </ol>
 <h3 class="how-sub"><w-b>実際の</w-b><w-b>画面</w-b></h3>
-<div class="gallery"><figure><div class="browser"><img alt="ホーム の画面" decoding="async" height="900" loading="lazy" src="../shots/pc-home.webp" width="1000"/></div><figcaption><w-b>ホーム</w-b></figcaption></figure><figure><div class="browser"><img alt="人生を整える（8つのステップ） の画面" decoding="async" height="907" loading="lazy" src="../shots/pc-journey.webp" width="927"/></div><figcaption><w-b>人生を</w-b><w-b>整える</w-b><w-b>（8つの</w-b><w-b>ステップ）</w-b></figcaption></figure></div>
+<div class="gallery"><figure><div class="phone"><img alt="ホーム の画面" decoding="async" height="1298" loading="lazy" src="../shots/home.webp" width="600"/></div><figcaption><w-b>ホーム</w-b></figcaption></figure><figure><div class="phone"><img alt="人生を整える（8つのステップ） の画面" decoding="async" height="1298" loading="lazy" src="../shots/journey.webp" width="600"/></div><figcaption><w-b>人生を</w-b><w-b>整える</w-b><w-b>（8つの</w-b><w-b>ステップ）</w-b></figcaption></figure></div>
 <p class="gallery-note"><w-b>画面は</w-b><w-b>サンプルデータで</w-b><w-b>表示しています</w-b></p>
 <div class="mio-grid">
 <div class="mio-card"><h3><w-b>ミオ先生に</w-b><w-b>相談できる</w-b><w-b>こと</w-b></h3><ul>

diff --git a/journey.css b/journey.css
@@ -243,3 +243,7 @@ details.more>.prose{padding:6px 0 26px}
 @media(max-width:600px){.gallery{grid-template-columns:1fr;gap:22px}}
 .academy-row .pc-panel{margin-top:0}
 .pc-quest-fix{}
+/* スマホ枠に戻す（2026年9月27日・社長「スマホ幅の方がきれい」） */
+.gallery{grid-template-columns:repeat(2,minmax(0,240px));max-width:none}
+@media(max-width:600px){.gallery{grid-template-columns:1fr 1fr;gap:16px}}
+#chapters>.shot-panel{max-width:760px;margin-top:34px}
